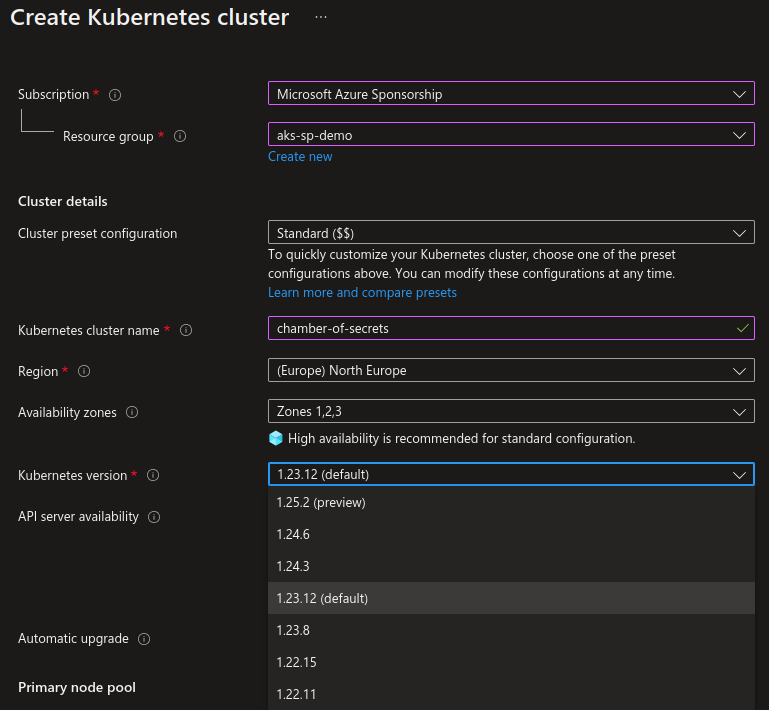
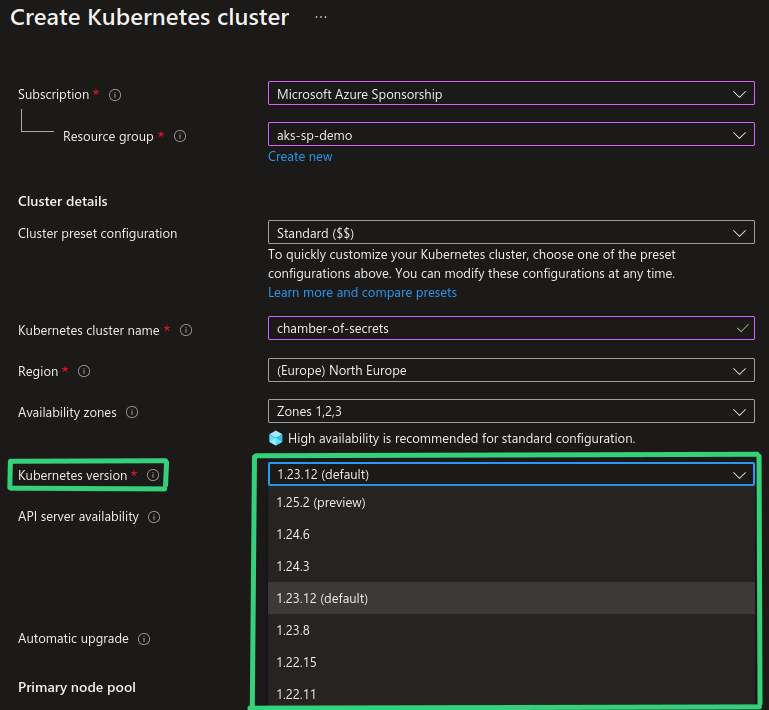
adding more content to AKS upgrade blog post

Changed region(s): [[0.3121, 0.6197, 0.9987, 1.0], [0.0, 0.6197, 0.2185, 0.7127]]

diff --git a/content/english/post/k8s_upgrade_strategy.md b/content/english/post/k8s_upgrade_strategy.md
@@ -63,12 +63,12 @@ There are 3 important pieces that you need to decide upon prior to doing your fi
 Now, let's take a look at concrete example here: in the animation below I've visualized an AKS cluster upgrade flow. We have an AKS cluster with 2 nodes which will be upgraded to a new Kubernetes version with latest node OS image. Node surge value is set to default where only 1 Node at a time will be taken down for upgrade.
 
 There are 2 applications in the game: 
-- DeerCat application with 8 replicas spread across existing 2 nodes. DeerCat application has PDB defined where 6 out of 8 Pods must be available at all times. 
+- DeerCat application with 8 replicas spread across existing 2 nodes. DeerCat application has PDB defined where at least 6 out of 8 Pods must be available. 
 - BlackHatCat application with 2 replicas which will be deployed to the same AKS cluster while the upgrade process is ongoing.
 
 The upgrade will happen as follows:
 
-1. Create buffer node, Node 3, on the chosen new version.
+1. Create buffer node (Node 3) with the chosen, new Kubernetes version.
 2. Choose Node 1 to upgrade. 
 3. Prohibit scheduling of new deployments (cordon) to this Node.
 4. Empty Node 1 (drain) by re-creating all Pods on other available Nodes, including the buffer node. The amount of Pods to be killed and re-created simultaneously is defined by Pod Disruption Budgets.
@@ -87,6 +87,31 @@ As I mentioned earlier, you can perform the upgrade manually, in a controlled ma
 
 ## AKS Auto-upgrade
 
+It is possible to configure automatic upgrade of AKS clusters to GA versions of Kubernetes, based on the chosen auto-upgrade channel.
+
+There are currently 5 auto-upgrade channels available:
+
+![AKS Auto-upgrade channels](../../images/k8s_upgrade_strategy/aks_auto_upgrade_channels.png)
+
+Let's say we have an AKS cluster on version ```1.23.12``` and we have currently these Kubernetes versions available:
+
+![AKS availble Kubernetes versions](../../images/k8s_upgrade_strategy/aks_upgrade_versions.png)
+
+If we take into consideration available Kubernetes versions in the screenshot above, each auto-upgrade channel will work as follows:
+
+> Please note that Kubernetes versioning scheme follows standard semantic versioning rules, i.e. for version ```1.23.12``` -> ```1(Major).23(Minor).12(Patch)```
+
+* **Patch** : will automatically upgrade to the newest patch of the currently used Kubernetes version. In our example there are no new patch versions available for version ```1.23``` but if ```1.23.13``` will be released for example, AKS cluster will be upgraded to version ```1.23.13``` automatically. 
+* **Stable** : will automatically upgrade to the latest patch of ```[LATEST_MINOR_VERSION] - 1```, i.e. the minor version right below newest minor version that is currently available. So in our example above, since preview versions are **NOT** supported by auto-upgrade, our AKS cluster on version ```1.23.12``` will not be upgraded just yet but once version ```1.25.2``` becomes GA, AKS cluster will be automatically upgraded to version ```1.24.6``` which is the version with the newest patch and minor version right below newest GA minor version.
+* **Rapid** : will automatically upgrade to the latest patch of the latest GA minor version that is currently available. So in our example above, since preview versions are **NOT** supported by auto-upgrade, our AKS cluster on version ```1.23.12``` will not be upgraded just yet but once version ```1.25.2``` becomes GA, AKS cluster will be automatically upgraded to version ```1.25.2``` which will then be the newest GA minor version with the newest patch.
+* **Node image**: will automatically upgrade node OS images once new versions become available. This channel can be useful in order to automatically get latest fixes and patches for the Linux and Windows nodes that your applications run on in the AKS cluster. For example, if your Linux nodes are running on version ```AKSUbuntu-1804-2022.11.01``` and version ```AKSUbuntu-1804-2022.11.12``` becomes available, Linux nodes will be automatically upgraded to use this new version.
+* **None/Disabled** : auto-upgrade functionality is disabled and you must upgrade your AKS clusters and node images manually.
+
+Even though Patch auto-upgrade channel is set as default and recommended when you create an AKS cluster from Azure Portal, it is not the same when you provision AKS cluster with IaC or Azure CLI. All provisioning methods except for creation through Azure Portal have auto-upgrade disabled by default and you will need to explicitly enable it if you want to start using it.
+
+You can enable auto-upgrade:
+
+You can learn more about auto-upgrade support for AKS here: [Automatically upgrade an Azure Kubernetes Service (AKS) cluster](https://learn.microsoft.com/en-us/azure/aks/auto-upgrade-cluster)
 
 ### Auto-upgrade considerations
 
@@ -96,10 +121,12 @@ As I mentioned earlier, you can perform the upgrade manually, in a controlled ma
 
 Below you may find a few resources to learn more about auto-upgrading AKS clusters and about the cluster and node image upgrade process in general:
 
-- []()
-- []()
-- []()
-- []()
+- Official Microsoft documentation for auto-upgrade support in AKS: [Automatically upgrade an Azure Kubernetes Service (AKS) cluster](https://learn.microsoft.com/en-us/azure/aks/auto-upgrade-cluster)
+- Support policies for AKS article provides details about technical support policies and limitations for Azure Kubernetes Service (AKS), as well as who is responsible for which areas of AKS. [Support policies for Azure Kubernetes Service](https://docs.microsoft.com/en-us/azure/aks/support-policies)
+- Kubernetes version support policy for AKS: [Supported Kubernetes versions in Azure Kubernetes Service (AKS)](https://learn.microsoft.com/en-us/azure/aks/supported-kubernetes-versions?tabs=azure-cli)
+- Official Microsoft documentation for AKS cluster upgrade process: [Upgrade an Azure Kubernetes Service (AKS) cluster](https://learn.microsoft.com/en-us/azure/aks/upgrade-cluster?tabs=azure-cli)
+- Official Microsoft documentation for AKS node image upgrade process:[Azure Kubernetes Service (AKS) node image upgrade](https://learn.microsoft.com/en-us/azure/aks/node-image-upgrade) and applying Linux node updates that require reboot: [Apply security and kernel updates to Linux nodes in Azure Kubernetes Service (AKS)](https://learn.microsoft.com/en-us/azure/aks/node-updates-kured)
+- Official Microsoft documentation for AKS Planned Maintenance support (currently in preview): [Use Planned Maintenance to chedule maintenance windows for your Azure Kubernetes Service (AKS) cluster (preview)](https://learn.microsoft.com/en-us/azure/aks/planned-maintenance)
 
 That\'s it from me this time, thanks for checking in!💖
 
